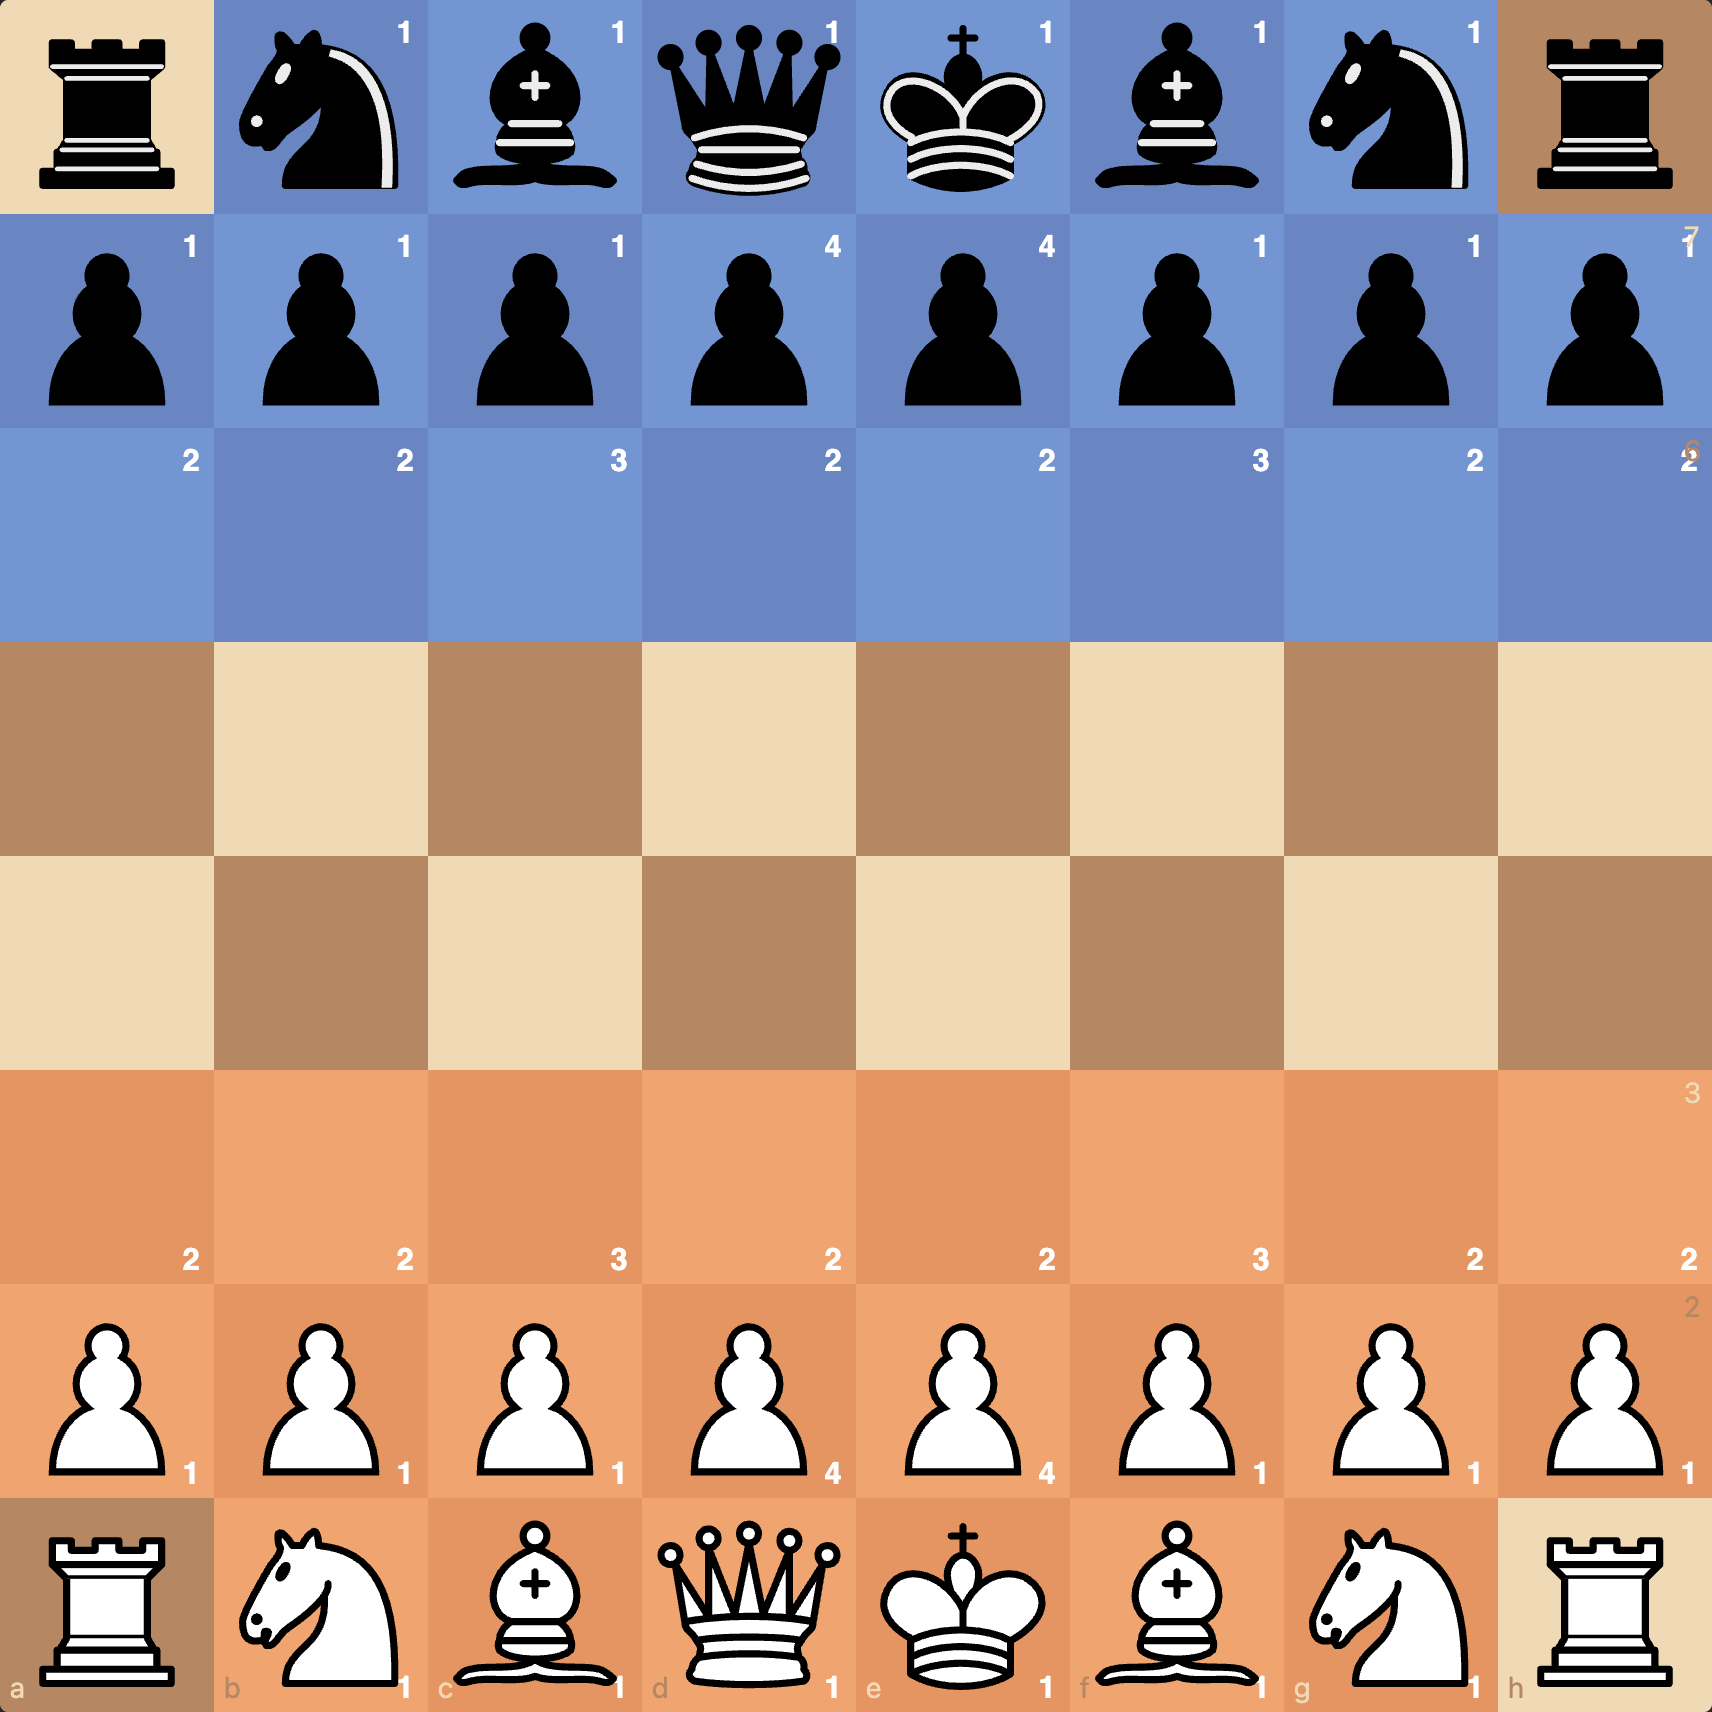
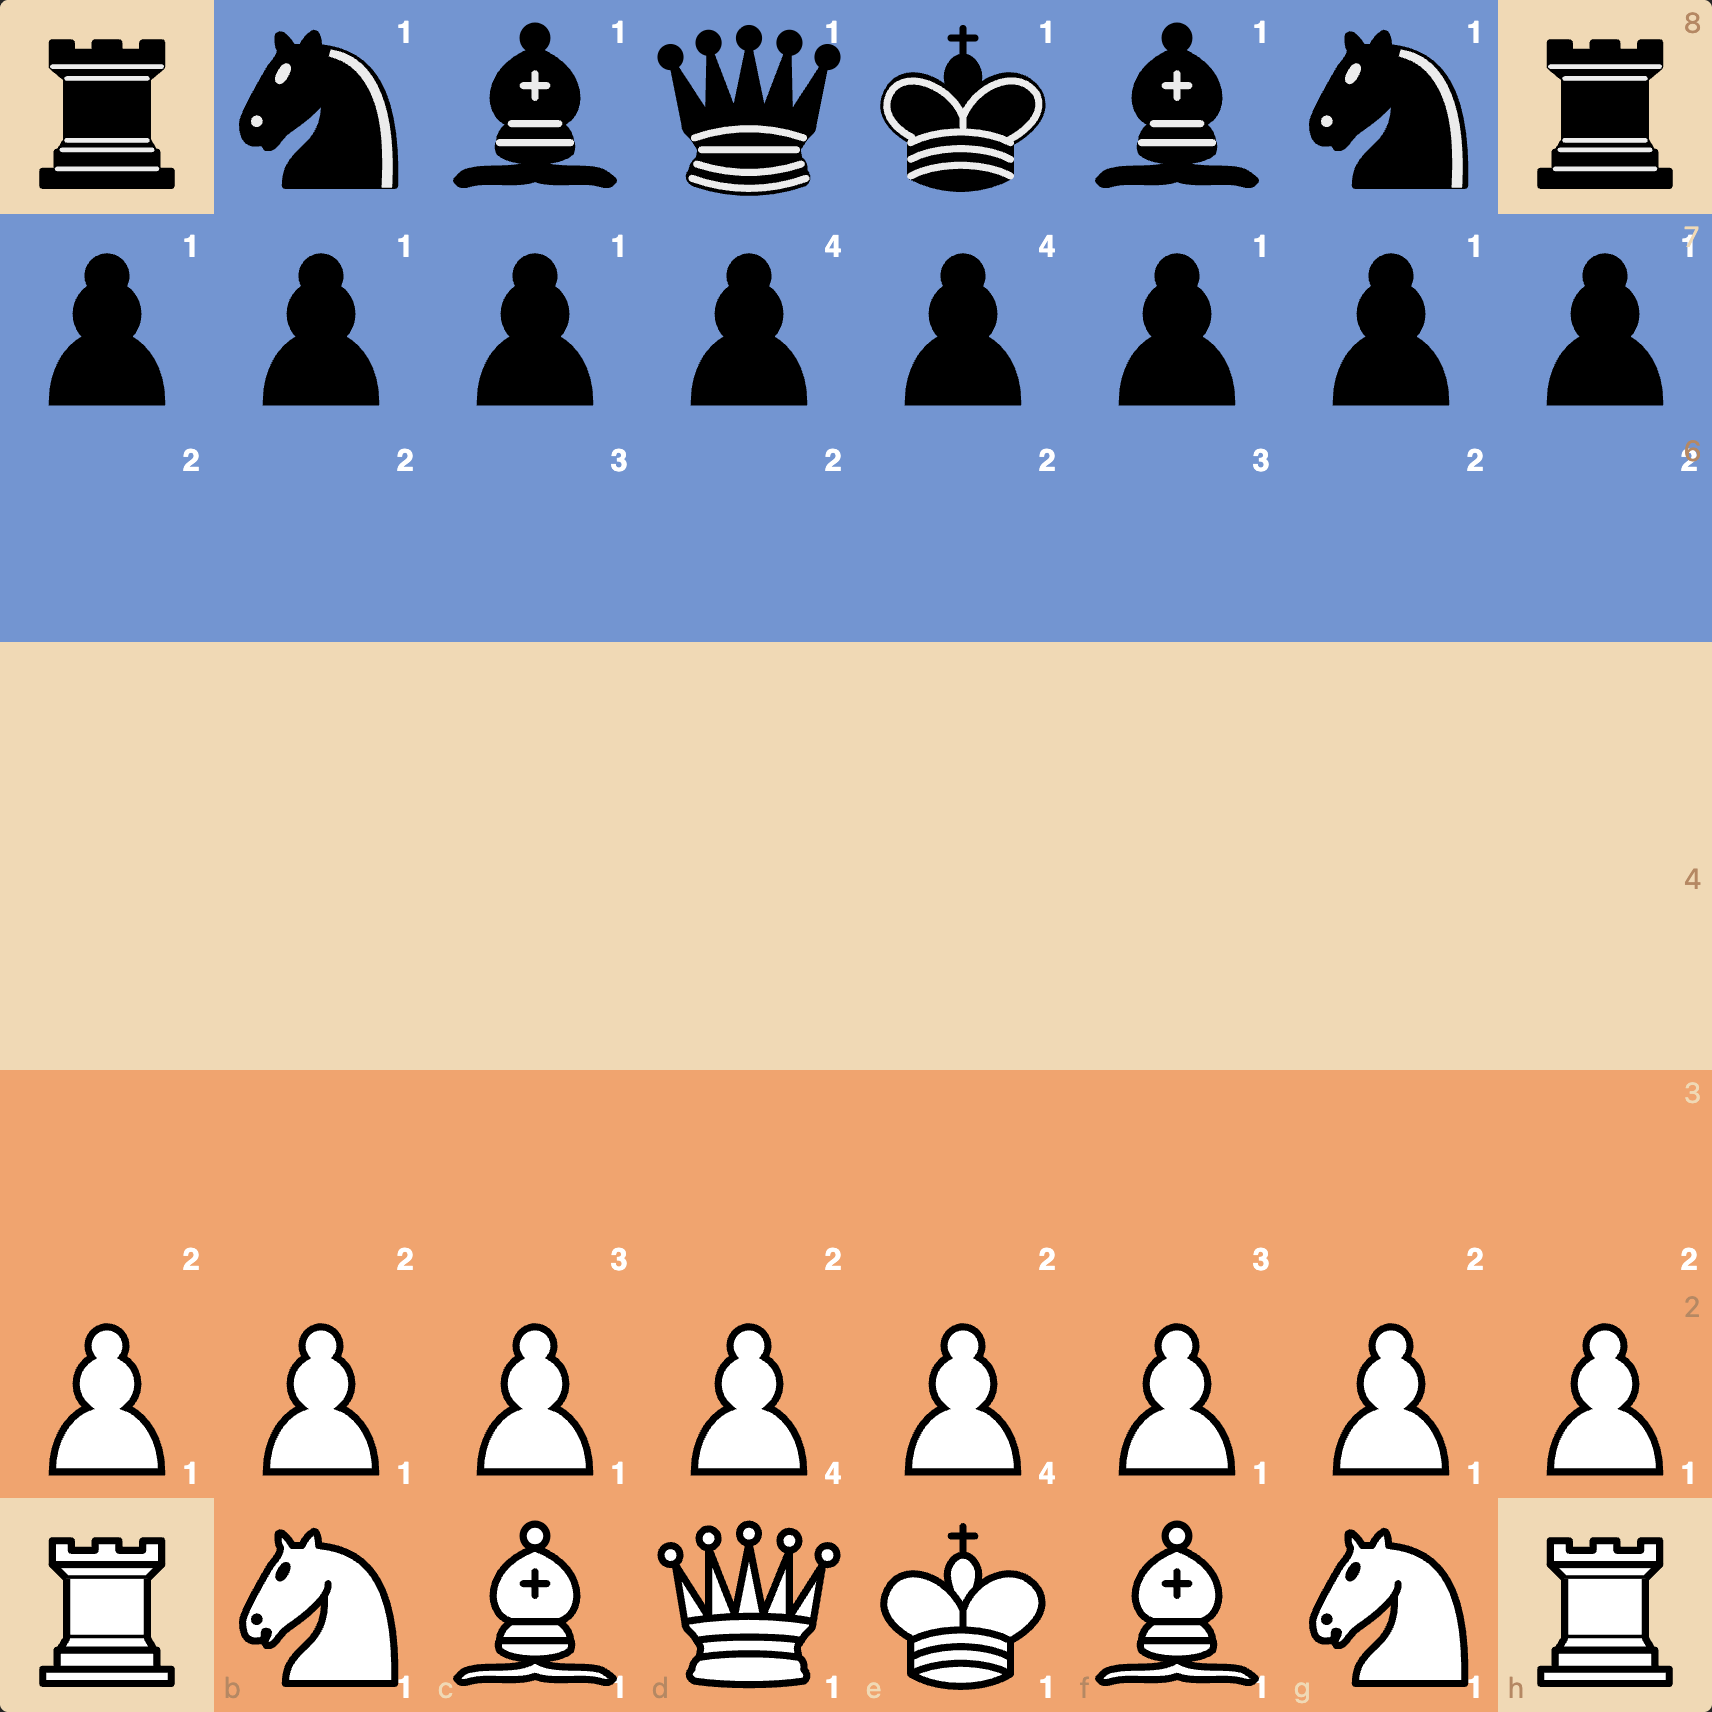
viz 1 single-colour background; new pinned-defender pin puzzle (Bxf6)

Changed region(s): [[0.0, 0.3715, 1.0, 0.6501], [0.0, 0.8668, 0.1238, 1.0], [0.8668, 0.0, 1.0, 0.1238]]

diff --git a/js/viz1-control.js b/js/viz1-control.js
@@ -7,7 +7,7 @@
 // Goal: see space dominance and pressure from across the room.
 
 import { parseFEN, computeControl } from './chess-utils.js';
-import { createBoardSVG, renderPieces, squareXY, SQ, el } from './board.js';
+import { createBoardSVG, renderPieces, squareXY, SQ, BOARD_SIZE, LIGHT, el } from './board.js';
 
 // Softer than the previous hot pink/navy. Warm peach for white, mid blue for black,
 // both at low saturation so the pieces on top stay readable.
@@ -23,6 +23,12 @@ export function render(container, fen, controls) {
 
   const { svg, layers } = createBoardSVG();
   container.replaceChildren(svg);
+
+  // Single light background instead of the brown/cream pattern, so the overlay colours
+  // don't have to fight the board palette.
+  layers.squares.replaceChildren(el('rect', {
+    x: 0, y: 0, width: BOARD_SIZE, height: BOARD_SIZE, fill: LIGHT,
+  }));
 
   drawProportionalFills(layers.control, ctrl);
   if (controls.showCounts) drawCounts(layers.control, ctrl);

diff --git a/js/positions.js b/js/positions.js
@@ -68,6 +68,11 @@ export const POSITIONS = [
     fen: 'rnb1kb1r/pp3ppp/2p5/4q3/4n3/3Q4/PPPB1PPP/2KR1BNR w kq - 0 9',
     notes: 'Discovered rook theme (Réti vs Tartakower, Berlin 1910). Rd1 is solid to Bd2, then dotted through Qd3 to d8 where the black king sits. White plays 9.Qd8+!! Kxd8 10.Bg5+ Bd2 moves and the rook smashes home with Rd1xd8#. Viz 2 makes the latent rook threat visible.',
   },
+  {
+    name: 'Pinned defender, Nf6 is not actually protected',
+    fen: 'r4rk1/pp1p1ppp/1qp2n2/8/4P3/1P1P2Q1/PBP2PPP/R4RK1 w - - 0 1',
+    notes: 'Pin theme. Nf6 looks safe (defended by Pg7, solid green ring), but Pg7 is pinned to the king by Qg3 (ice on g7). White plays Bxf6 winning the knight, the pawn can\'t recapture because it would expose Kg8.',
+  },
 ];
 
 export const DEFAULT_FEN = POSITIONS[1].fen;

diff --git a/scripts/caption_reddit.py b/scripts/caption_reddit.py
@@ -38,18 +38,18 @@ class Slide:
 # inside each overlay so the reader gets the "wow" first and the explainer second.
 IMAGES: list[Slide] = [
     Slide(
-        "01-overlay3-deflection.png",
+        "01-overlay3-pin.png",
+        "viz3_13_pinned-defender-nf6-is-not-actually-prot.png",
+        "Overlay 3 · The pinned defender",
+        "Nf6 looks safe, it has a solid green ring (pawn-defended by g7). But g7 is iced: pinned to the king by Qg3. White plays Bxf6! — the pawn can't recapture because moving it would expose the king. The ice tells you the defender is fake.",
+        "r4rk1/pp1p1ppp/1qp2n2/8/4P3/1P1P2Q1/PBP2PPP/R4RK1 w - - 0 1",
+    ),
+    Slide(
+        "02-overlay3-deflection.png",
         "viz3_11_deflection-the-weak-defender.png",
         "Overlay 3 · Deflection",
         "Nc6 wears a dotted green ring: defended only by Bb7, no pawn anchor. Bb7 itself is hanging (red ring). White plays Rxb7! and then Nxc6 wins the knight too.",
         "5rk1/1b3ppp/2n1p3/3pN3/3P4/4P3/P1P2PPP/1R4K1 w - - 0 1",
-    ),
-    Slide(
-        "02-overlay3-absolute-pin.png",
-        "viz3_5_absolute-pin-knight-on-the-e-file.png",
-        "Overlay 3 · Pins & protection · baseline",
-        "Big tall ice = absolute pin against the king. Small low ice would mean a lesser pin. Green rings = defended (solid = pawn-anchored, dotted = piece-only).",
-        "4r1k1/pp4pp/8/8/8/8/4N1PP/4K2R w K - 0 1",
     ),
     Slide(
         "03-overlay2-réti.png",
